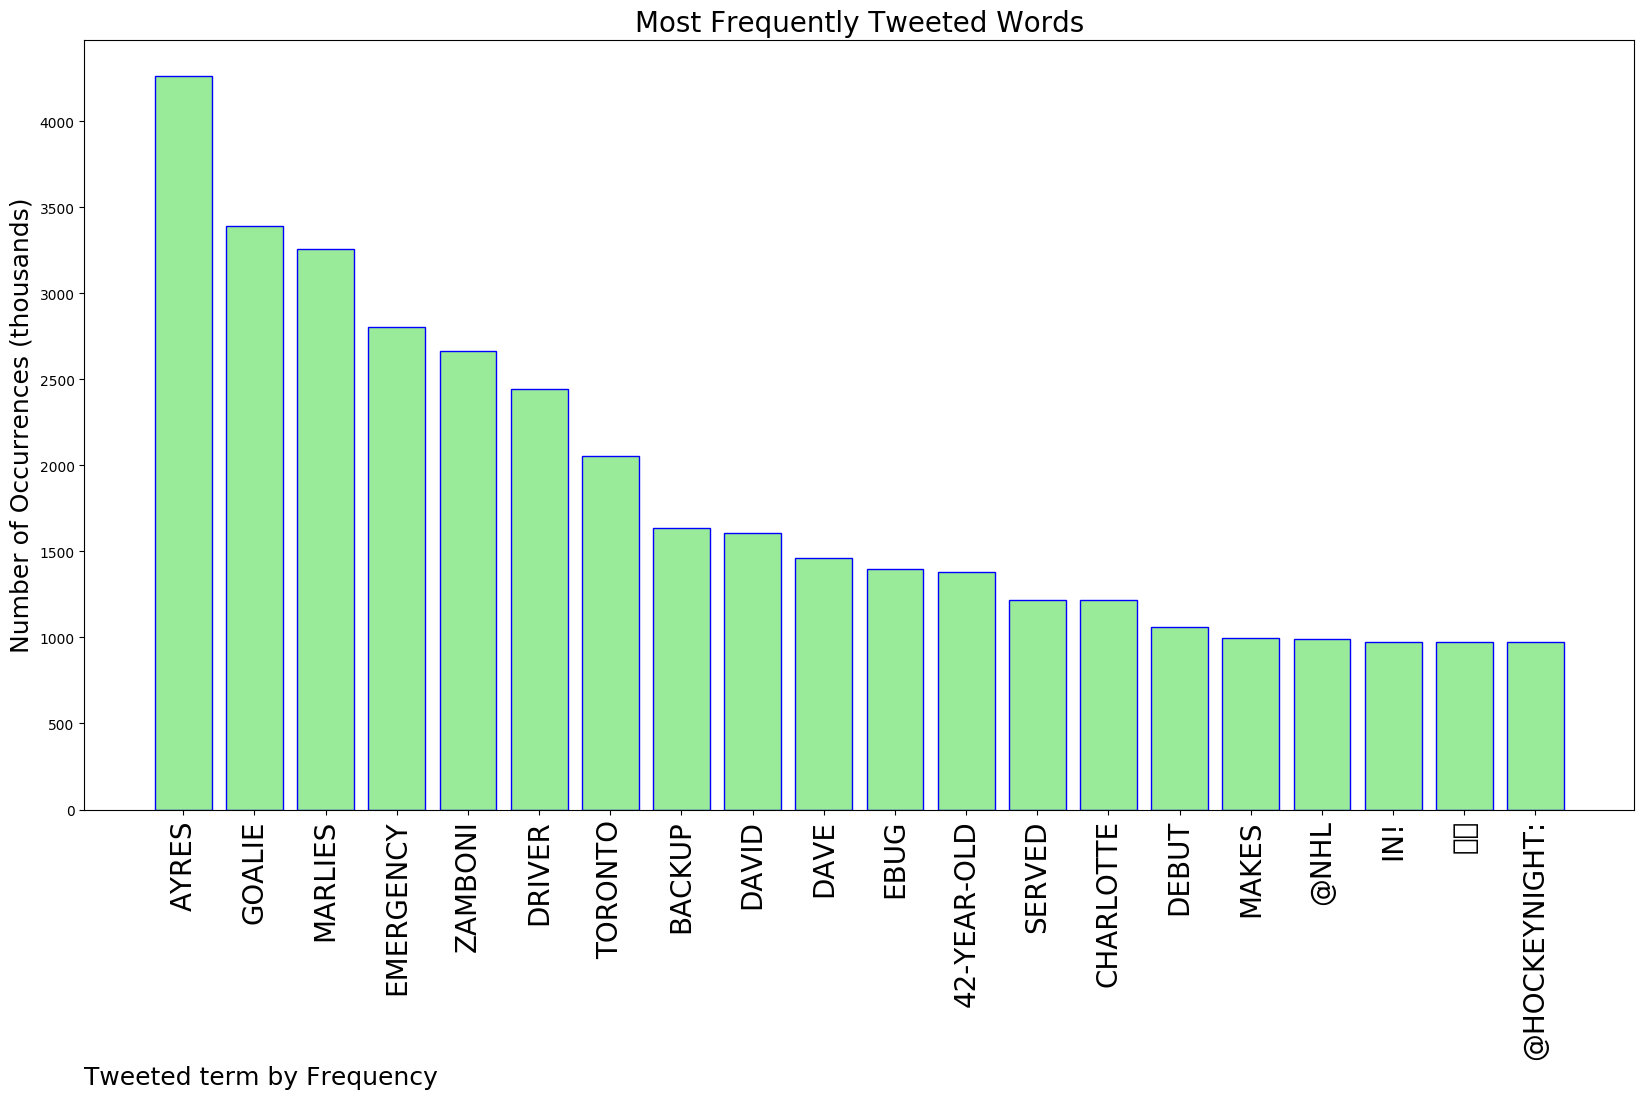
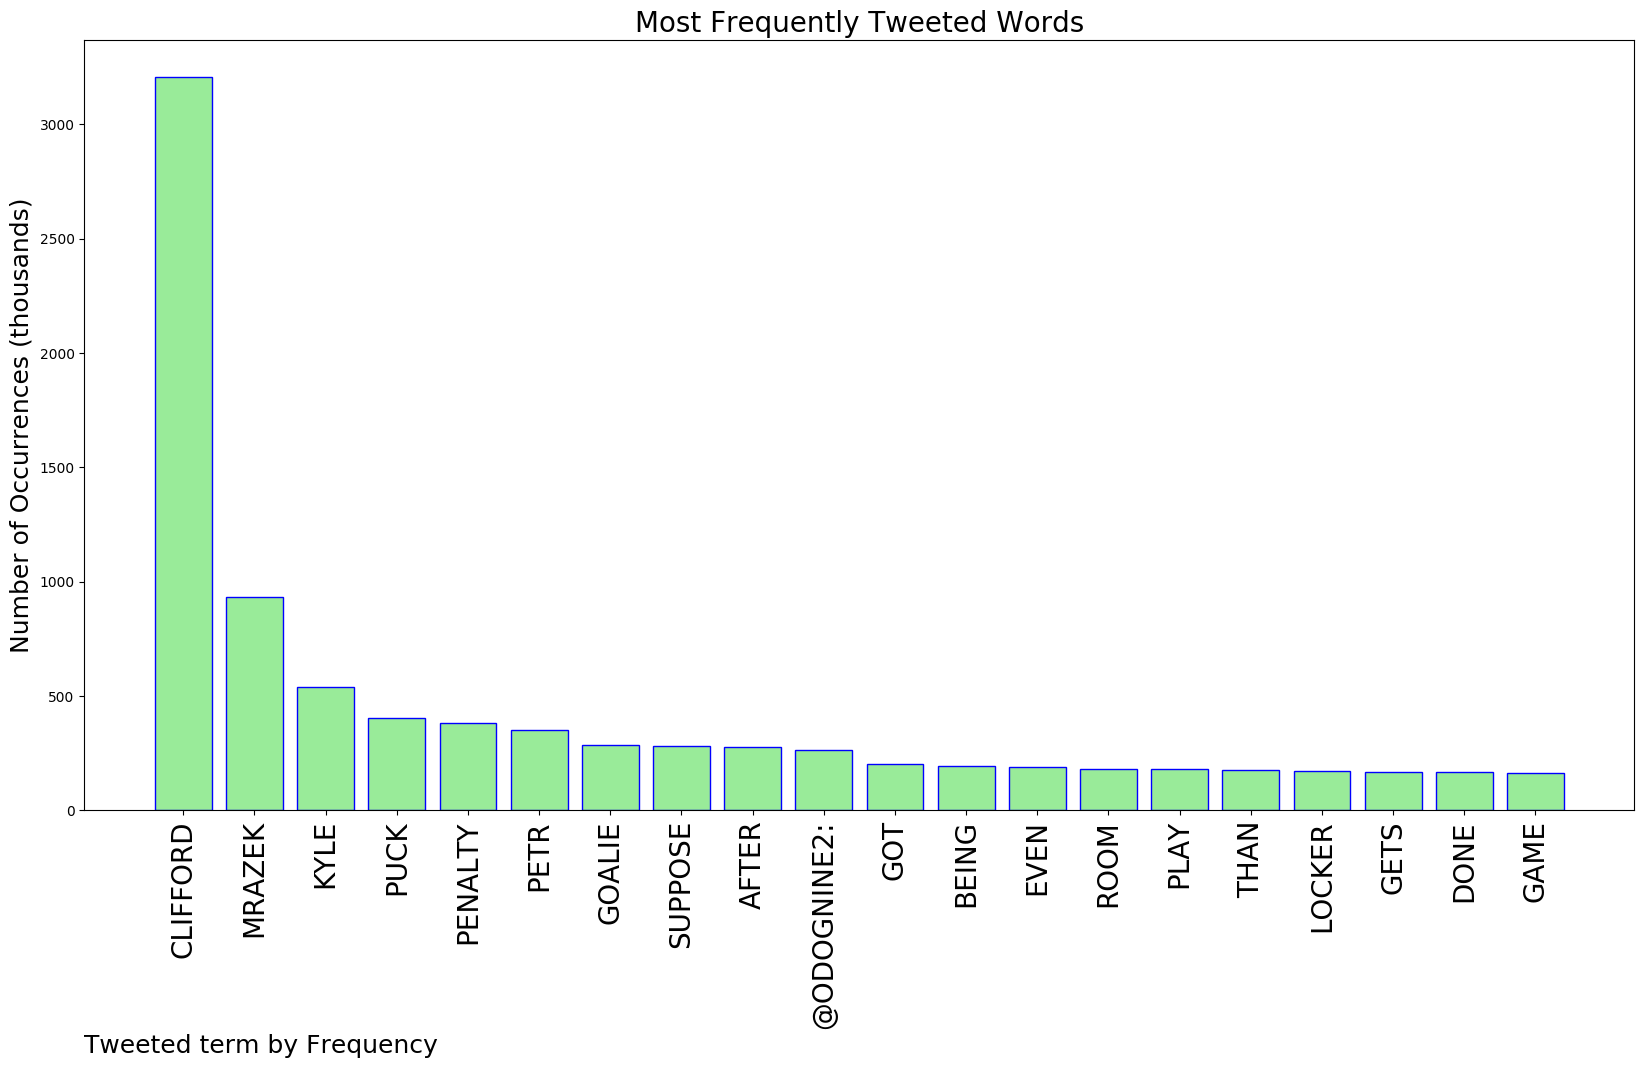
Updating with latest report

diff --git a/README.md b/README.md
@@ -1,5 +1,5 @@
 # MURCHIE85 TWITTER PROCESSING 
-&#x1F34E; **TOPIC = "Marlies"**
+&#x1F34E; **TOPIC = "Clifford"**
 
 ## AUTOMATED RESEARCH SUMMARY
 
@@ -15,21 +15,20 @@
 
 |                **Sample-Tweets**        |
 | :-------------: |
-| <div class="alert alert-block alert-warning">Is it possible to send the entire roster down and bring the Marlies roster up</div> <div class="alert alert-block alert-success">It's the first time in my life I am turning away from a #Habs' game to watch #Leafs. I am told that the Marlies' Za… https://t.co/GwYTUzR6w9</div> <div class="alert alert-block alert-info">RT @NathanGraviteh: Emergency goalie David Ayres making his NHL debut.He faces of against the Leafs in FULL Marlies gear. 😂 https://t.co/…</div> |
-The most popular user is: **jodiferg**
-<div class="alert alert-block alert-danger"> RT @hockeynight: The emergency backup goalie is in!
-
-David Ayres, a Toronto Marlies Zamboni driver, makes his @NHL debut 👏👏 https://t.co/Mq…</div>
+| <div class="alert alert-block alert-warning">Says a Leafs fan. Naturally.Those who know Clifford better KNOW it was intentional. https://t.co/tSK728RVzP</div> <div class="alert alert-block alert-success">RT @CardiacCane: Clifford gets a 5 minute major for charging#LetsGoCanes #CARvsTOR</div> <div class="alert alert-block alert-info">We sent F to London for the break- THANK YOU to @smwark and @lucythornett for hosting our oldest and @mckenziewark… https://t.co/eCDq3cszJf</div> |
+The most popular user is: **clifford_mbb**
+<div class="alert alert-block alert-danger"> RT @bts_bighit: [#방탄밤] [#방밤캠] ‘#ON' Kinetic Manifesto Film 단체 Focus ver.
+(https://t.co/HygA9U4gOq)</div>
 
 ## RELATED METRICS<br>
 | Metric | Value |
 | ------------- | ------------- |
-| #1 Most tweeted to  | **Canes** |
-| #2 Most tweeted to  | **NHL** |
-| #3 Most tweeted to  | **hockeynight** |
-| NewProfiles (less than 10 days) | 0.36%  |
-| Tweeters with < 10 followers  | 1.9%|
-| Tweeters with > 1000000 followers  | 0.04%  |
+| #1 Most tweeted to  | **odognine2** |
+| #2 Most tweeted to  | **BradyTrett** |
+| #3 Most tweeted to  | **Mickcliff** |
+| NewProfiles (less than 10 days) | 0.4%  |
+| Tweeters with < 10 followers  | 4.12%|
+| Tweeters with > 1000000 followers  | 0.0%  |
 
 
 
@@ -38,30 +37,31 @@ David Ayres, a Toronto Marlies Zamboni driver, makes his @NHL debut 👏👏 htt
 
 | Popularity Rank  | Term |
 | ------------- | ------------- |
-| first  | **AYRES**  |
-| second  | **GOALIE**  |
-| third  | **MARLIES** |
-| fourth  | **EMERGENCY**  |
-| fifth  | **ZAMBONI**  |
+| first  | **CLIFFORD**  |
+| second  | **MRAZEK**  |
+| third  | **KYLE** |
+| fourth  | **PUCK**  |
+| fifth  | **PENALTY**  |
 
 
 ## Twitter Bio Analysis![image](BIO.png)
 ### SENTIMENT ANALYSIS
 ![image](sentiment.png)
-VIEWS WERE : **SUBJECTIVE**  (6.67%) & **NEGATIVELY-SUBJECTIVE** (33.33%) **OBJECTIVE** (60.0%)
+VIEWS WERE : **SUBJECTIVE**  (20.0%) & **NEGATIVELY-SUBJECTIVE** (6.67%) **OBJECTIVE** (73.33%)
 
 ### TWEET SAMPLE 
 Random value picked from array: 
 
-<div class="alert alert-block alert-info">Is it possible to send the entire roster down and bring the Marlies roster up</div>
+<div class="alert alert-block alert-info">Says a Leafs fan. Naturally.
+
+Those who know Clifford better KNOW it was intentional. https://t.co/tSK728RVzP</div>
 
 ### MOST RETWEETED 
 
-The most retweeted user is: **jodiferg**
+The most retweeted user is: **clifford_mbb**
 
-<div class="alert alert-block alert-danger"> RT @hockeynight: The emergency backup goalie is in!
-
-David Ayres, a Toronto Marlies Zamboni driver, makes his @NHL debut 👏👏 https://t.co/Mq…</div>
+<div class="alert alert-block alert-danger"> RT @bts_bighit: [#방탄밤] [#방밤캠] ‘#ON' Kinetic Manifesto Film 단체 Focus ver.
+(https://t.co/HygA9U4gOq)</div>
 
 ### CONCLUSION & EXTERNAL ANALYSIS
 
